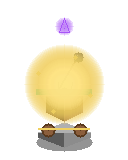
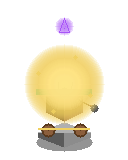
feat(assets): catapult arm swing animation + golem dual-arm throw
Catapult (plasma): split into drawPlasmaBody + drawPlasmaArm so the
fire spritesheet renders body once then rotates the arm per-frame
(0=loaded → 3=fully flung → 7=reset). No more static arm + ghost arm.

Earth golem: both arms raise boulder overhead, swing forward, throw.

Changed region(s): [[0.6875, 0.6562, 0.7812, 0.7188], [0.5625, 0.3125, 0.6562, 0.375], [0.6562, 0.625, 0.6875, 0.6562]]

diff --git a/scripts/generate-assets/generate-towers.ts b/scripts/generate-assets/generate-towers.ts
@@ -21,7 +21,7 @@ import { ALL_TOWERS } from '../../packages/shared/src/constants/towers';
 import type { TowerDef as SharedTowerDef } from '../../packages/shared/src/types/tower';
 import type { SKRSContext2D } from '@napi-rs/canvas';
 import {
-  drawArcherHQ, drawPlasmaHQ, drawEmpHQ, drawShieldHQ,
+  drawArcherHQ, drawPlasmaHQ, drawPlasmaBody, drawPlasmaArm, drawEmpHQ, drawShieldHQ,
   drawTwinArcherHQ, drawDisruptorHQ, drawNovaCannonHQ, drawFortressHQ,
   drawStasisFieldHQ, drawFlameTowerHQ, drawWindSpireHQ, drawEarthGolemHQ,
   drawHolyShrineHQ, drawDragonNestHQ, drawArcaneSpireHQ, drawWorldTreeHQ,
@@ -698,39 +698,36 @@ function drawPilotFireEffect(ctx: SKRSContext2D, ox: number, tower: TowerAssetDe
   }
 
   if (tower.id === 'plasma') {
-    // Catapult boulder arc — arm snaps, boulder flies in parabolic arc
-    const pivotX = cx - 2;
-    const pivotY = 40;
-    const armLen = 20;
+    // Catapult with arm swing — DON'T use HQ base (it includes static arm).
+    // Instead we skip the pre-rendered base and draw body+arm per frame.
+    // Clear the pre-rendered HQ base for this frame
+    ctx.clearRect(ox, 0, 64, 80);
 
-    if (frame >= 1 && frame <= 2) {
-      // Arm swinging (pixel lines)
-      const swing = frame === 1 ? 0.3 : 0.9;
-      const angle = -0.5 + 2.4 * swing;
-      const tipX = Math.round(pivotX + armLen * Math.cos(angle));
-      const tipY = Math.round(pivotY - armLen * Math.sin(angle));
-      drawLine(ctx, pivotX, pivotY, tipX, tipY, PALETTE.woodDark);
-      drawLine(ctx, pivotX + 1, pivotY, tipX + 1, tipY, PALETTE.wood);
-      // Boulder in sling (frame 1 only)
-      if (frame === 1) {
-        fillCircle(ctx, tipX, tipY, 3, PALETTE.stoneDark);
-        setPixel(ctx, tipX - 1, tipY - 1, PALETTE.stoneLight);
-      }
-    }
+    // Draw body (no arm) scaled to 64×80
+    const { canvas: bodyTmp, ctx: bodyCtx } = makeCanvas(HQ_WIDTH, HQ_HEIGHT);
+    drawPlasmaBody(bodyCtx, 0, 0);
+    ctx.drawImage(bodyTmp, 0, 0, HQ_WIDTH, HQ_HEIGHT, ox, 0, 64, 80);
+
+    // Arm swing timeline (same as legacy catapult)
+    const swingTable = [0.0, 0.05, 0.6, 1.0, 0.9, 0.4, 0.15, 0.0];
+    const swing = swingTable[frame] ?? 0;
+    const showBoulder = frame <= 1;
+
+    // Draw arm at 64×80 scale
+    const { canvas: armTmp, ctx: armCtx } = makeCanvas(HQ_WIDTH, HQ_HEIGHT);
+    drawPlasmaArm(armCtx, 0, 0, swing, showBoulder);
+    ctx.drawImage(armTmp, 0, 0, HQ_WIDTH, HQ_HEIGHT, ox, 0, 64, 80);
+
+    // Boulder in flight (after release)
     if (frame >= 3 && frame <= 5) {
-      // Boulder in flight (parabolic arc)
       const t = (frame - 2) / 3;
       const bx = Math.round(cx + 8 + t * 18);
       const by = Math.round(24 - Math.sin(t * Math.PI) * 16);
       fillCircle(ctx, bx, by, 3, PALETTE.stoneDark);
       setPixel(ctx, bx - 1, by - 1, PALETTE.stoneLight);
-      // Trail
-      if (t > 0.3) {
-        setPixel(ctx, bx - 4, by + 2, hexToRgba(PALETTE.dirtPath, 0.3));
-      }
+      if (t > 0.3) setPixel(ctx, bx - 4, by + 2, hexToRgba(PALETTE.dirtPath, 0.3));
     }
     if (frame === 6) {
-      // Impact
       addGlow(ctx, cx + 26, 22, 5, PALETTE.fireOrange, 0.3);
       setPixel(ctx, cx + 24, 20, PALETTE.stoneDark);
       setPixel(ctx, cx + 28, 24, PALETTE.stoneDark);

diff --git a/scripts/generate-assets/towers/pilot-draw.ts b/scripts/generate-assets/towers/pilot-draw.ts
@@ -503,7 +503,8 @@ export function drawDivineThroneHQ(ctx: SKRSContext2D, ox: number, oy: number): 
 // ██  Remaining 10 towers — medieval pixel style              ██
 // ══════════════════════════════════════════════════════════════
 
-export function drawPlasmaHQ(ctx: SKRSContext2D, ox: number, oy: number): void {
+/** Plasma body WITHOUT arm — arm is drawn separately for fire animation */
+export function drawPlasmaBody(ctx: SKRSContext2D, ox: number, oy: number): void {
   const cx = ox + 64;
   const baseY = oy + 132;
   drawIsoShadow(ctx, cx, baseY + 10, 28, 9, 0.42);
@@ -520,20 +521,44 @@ export function drawPlasmaHQ(ctx: SKRSContext2D, ox: number, oy: number): void {
   // Wooden frame body
   drawIsoCube(ctx, cx, oy + 96, 18, 16, PALETTE.wood, PALETTE.woodDark, hexToRgba(PALETTE.wood, 0.8));
 
-  // Arm (diagonal)
-  drawLine(ctx, cx - 8, oy + 92, cx + 12, oy + 58, PALETTE.woodDark);
-  drawLine(ctx, cx - 7, oy + 92, cx + 13, oy + 58, PALETTE.wood);
-
-  // Sling cup at tip
-  drawRect(ctx, cx + 10, oy + 54, 8, 6, PALETTE.woodLight);
-  drawRect(ctx, cx + 11, oy + 55, 6, 4, PALETTE.wood);
-  // Boulder
-  fillCircle(ctx, cx + 14, oy + 57, 5, PALETTE.stoneDark);
-  setPixel(ctx, cx + 13, oy + 55, PALETTE.stoneLight);
-
   // Support struts
   drawLine(ctx, cx - 6, oy + 96, cx - 6, oy + 82, PALETTE.woodDark);
   drawLine(ctx, cx + 6, oy + 96, cx + 8, oy + 82, PALETTE.woodDark);
+}
+
+/** Plasma arm at a given swing position (0=loaded, 1=fully flung) */
+export function drawPlasmaArm(
+  ctx: SKRSContext2D, ox: number, oy: number,
+  swing: number, showBoulder: boolean,
+): void {
+  const cx = ox + 64;
+  const pivotX = cx;
+  const pivotY = oy + 92;
+  const armLen = 34;
+  const angleStart = -0.5;
+  const angleEnd = 2.4;
+  const angle = angleStart + (angleEnd - angleStart) * swing;
+  const tipX = Math.round(pivotX + armLen * Math.cos(angle));
+  const tipY = Math.round(pivotY - armLen * Math.sin(angle));
+
+  // Pivot bolt
+  fillCircle(ctx, pivotX, pivotY, 2, PALETTE.woodDark);
+  // Arm shaft
+  drawLine(ctx, pivotX, pivotY, tipX, tipY, PALETTE.woodDark);
+  drawLine(ctx, pivotX + 1, pivotY, tipX + 1, tipY, PALETTE.wood);
+  // Sling cup
+  drawRect(ctx, tipX - 3, tipY - 3, 6, 5, PALETTE.woodLight);
+  drawRect(ctx, tipX - 2, tipY - 2, 4, 3, PALETTE.wood);
+  // Boulder
+  if (showBoulder) {
+    fillCircle(ctx, tipX, tipY, 4, PALETTE.stoneDark);
+    setPixel(ctx, tipX - 1, tipY - 1, PALETTE.stoneLight);
+  }
+}
+
+export function drawPlasmaHQ(ctx: SKRSContext2D, ox: number, oy: number): void {
+  drawPlasmaBody(ctx, ox, oy);
+  drawPlasmaArm(ctx, ox, oy, 0, true); // idle: loaded position with boulder
 }
 
 export function drawEmpHQ(ctx: SKRSContext2D, ox: number, oy: number): void {
